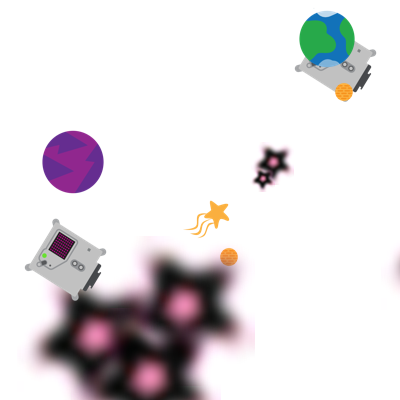
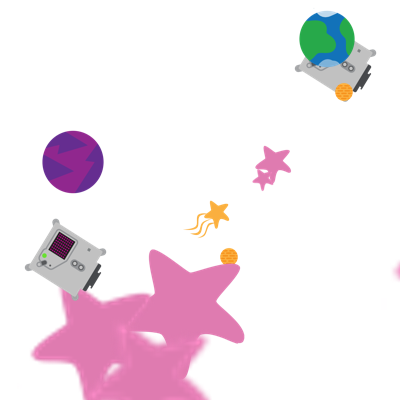
made it loop thrugh without having to restart program

Changed region(s): [[0.06, 0.6, 0.66, 1.0], [0.63, 0.36, 0.75, 0.48], [0.99, 0.63, 1.0, 0.72]]

diff --git a/test2.py b/test2.py
@@ -1,0 +1,49 @@
+from p5 import *
+import random
+
+# Define the golden ratio
+phi = (1 + 5 ** 0.5) / 2  # Approximately 1.618
+
+def setup():
+    size(800, 800)
+    #no_loop()  # Draw once
+
+def draw():
+    background(255)
+    
+    # Get user input for the name
+    name = input("Enter a name: ")
+    create_pattern(name)
+
+def create_pattern(name):
+    # Set the starting position
+    x, y = width / 2, height / 2
+    spacing = 50  # Base space between shapes
+
+    for char in name:
+        draw_shape(char, x, y)
+        # Update x position for the next shape using the golden ratio
+        x += spacing * phi
+
+        # Move to the next row if we go beyond the canvas width
+        if x > width - 50:
+            x = width / 2
+            y += spacing * phi  # Use golden ratio for vertical spacing
+
+def draw_shape(char, x, y):
+    # Map characters to shapes
+    if char.isalpha():
+        # Use golden ratio to determine size
+        size = random.randint(30, 60)
+        fill(random.randint(100, 255), random.randint(100, 255), random.randint(100, 255))
+        
+        if char.lower() in 'aeiou':  # Vowels
+            ellipse(x, y, size, size)
+        else:  # Consonants
+            rect(x - size / 2, y - size / 2, size, size)
+
+def key_pressed():
+    # Refresh the drawing on key press
+    redraw()
+
+run()

diff --git a/main.py b/main.py
@@ -1,6 +1,6 @@
 #!/bin/python3
 
-from p5 import image, fill, rect, load_image, no_stroke, run, size, Color, save_canvas
+from p5 import image, fill, rect, load_image, no_stroke, run, size, Color, save_canvas, redraw
 from random import randint, seed
 
 # Draw a planet based on chosen size and colour
@@ -70,7 +70,7 @@ def setup():
 
   
 def draw():
-  
+    name = input("Enter a name: ")
     # Dictionary of letters and their encoded shape
     code = {
         'a': ['shape 3', 150, 'pink'],
@@ -103,9 +103,9 @@ def draw():
     }
 
     
-    global name
+    #global name
 
-    seed(10) # Generate the same random numbers each time
+    seed(5) # Generate the same random numbers each time
     no_stroke()
     draw_background()
 
@@ -125,9 +125,13 @@ def draw():
             shape_3(item[1], item[2])
     filename = name +".png"
     save_canvas(filename)
+
+def key_pressed():
+    # Refresh the drawing on key press
+    redraw()
     
 
 if __name__ == '__main__':
-    print('Enter your name to make some encoded artwork:')
-    name = input()
-    run(frame_rate=10)
+    #print('Enter your name to make some encoded artwork:')
+    #name = input()
+    run(frame_rate=20)

diff --git a/test.py b/test.py
@@ -1,0 +1,44 @@
+from p5 import *
+import random
+
+def setup():
+    size(800, 800)
+
+def draw():
+    background(255)
+    
+    # Get user input for the name
+    name = input("Enter a name: ")
+    create_pattern(name)
+
+def create_pattern(name):
+    # Set the starting position
+    x, y = width / 2, height / 2
+    spacing = 50  # Space between shapes
+
+    for char in name:
+        draw_shape(char, x, y)
+        # Update x position for the next shape
+        x += spacing
+
+        # Move to the next row if we go beyond the canvas width
+        if x > width - 50:
+            x = width / 2
+            y += spacing
+
+def draw_shape(char, x, y):
+    # Map characters to shapes
+    if char.isalpha():
+        size = random.randint(30, 60)
+        fill(random.randint(100, 255), random.randint(100, 255), random.randint(100, 255))
+        
+        if char.lower() in 'aeiou':  # Vowels
+            ellipse(x, y, size, size)
+        else:  # Consonants
+            rect(x - size / 2, y - size / 2, size, size)
+
+def key_pressed():
+    # Refresh the drawing on key press
+    redraw()
+
+run()
